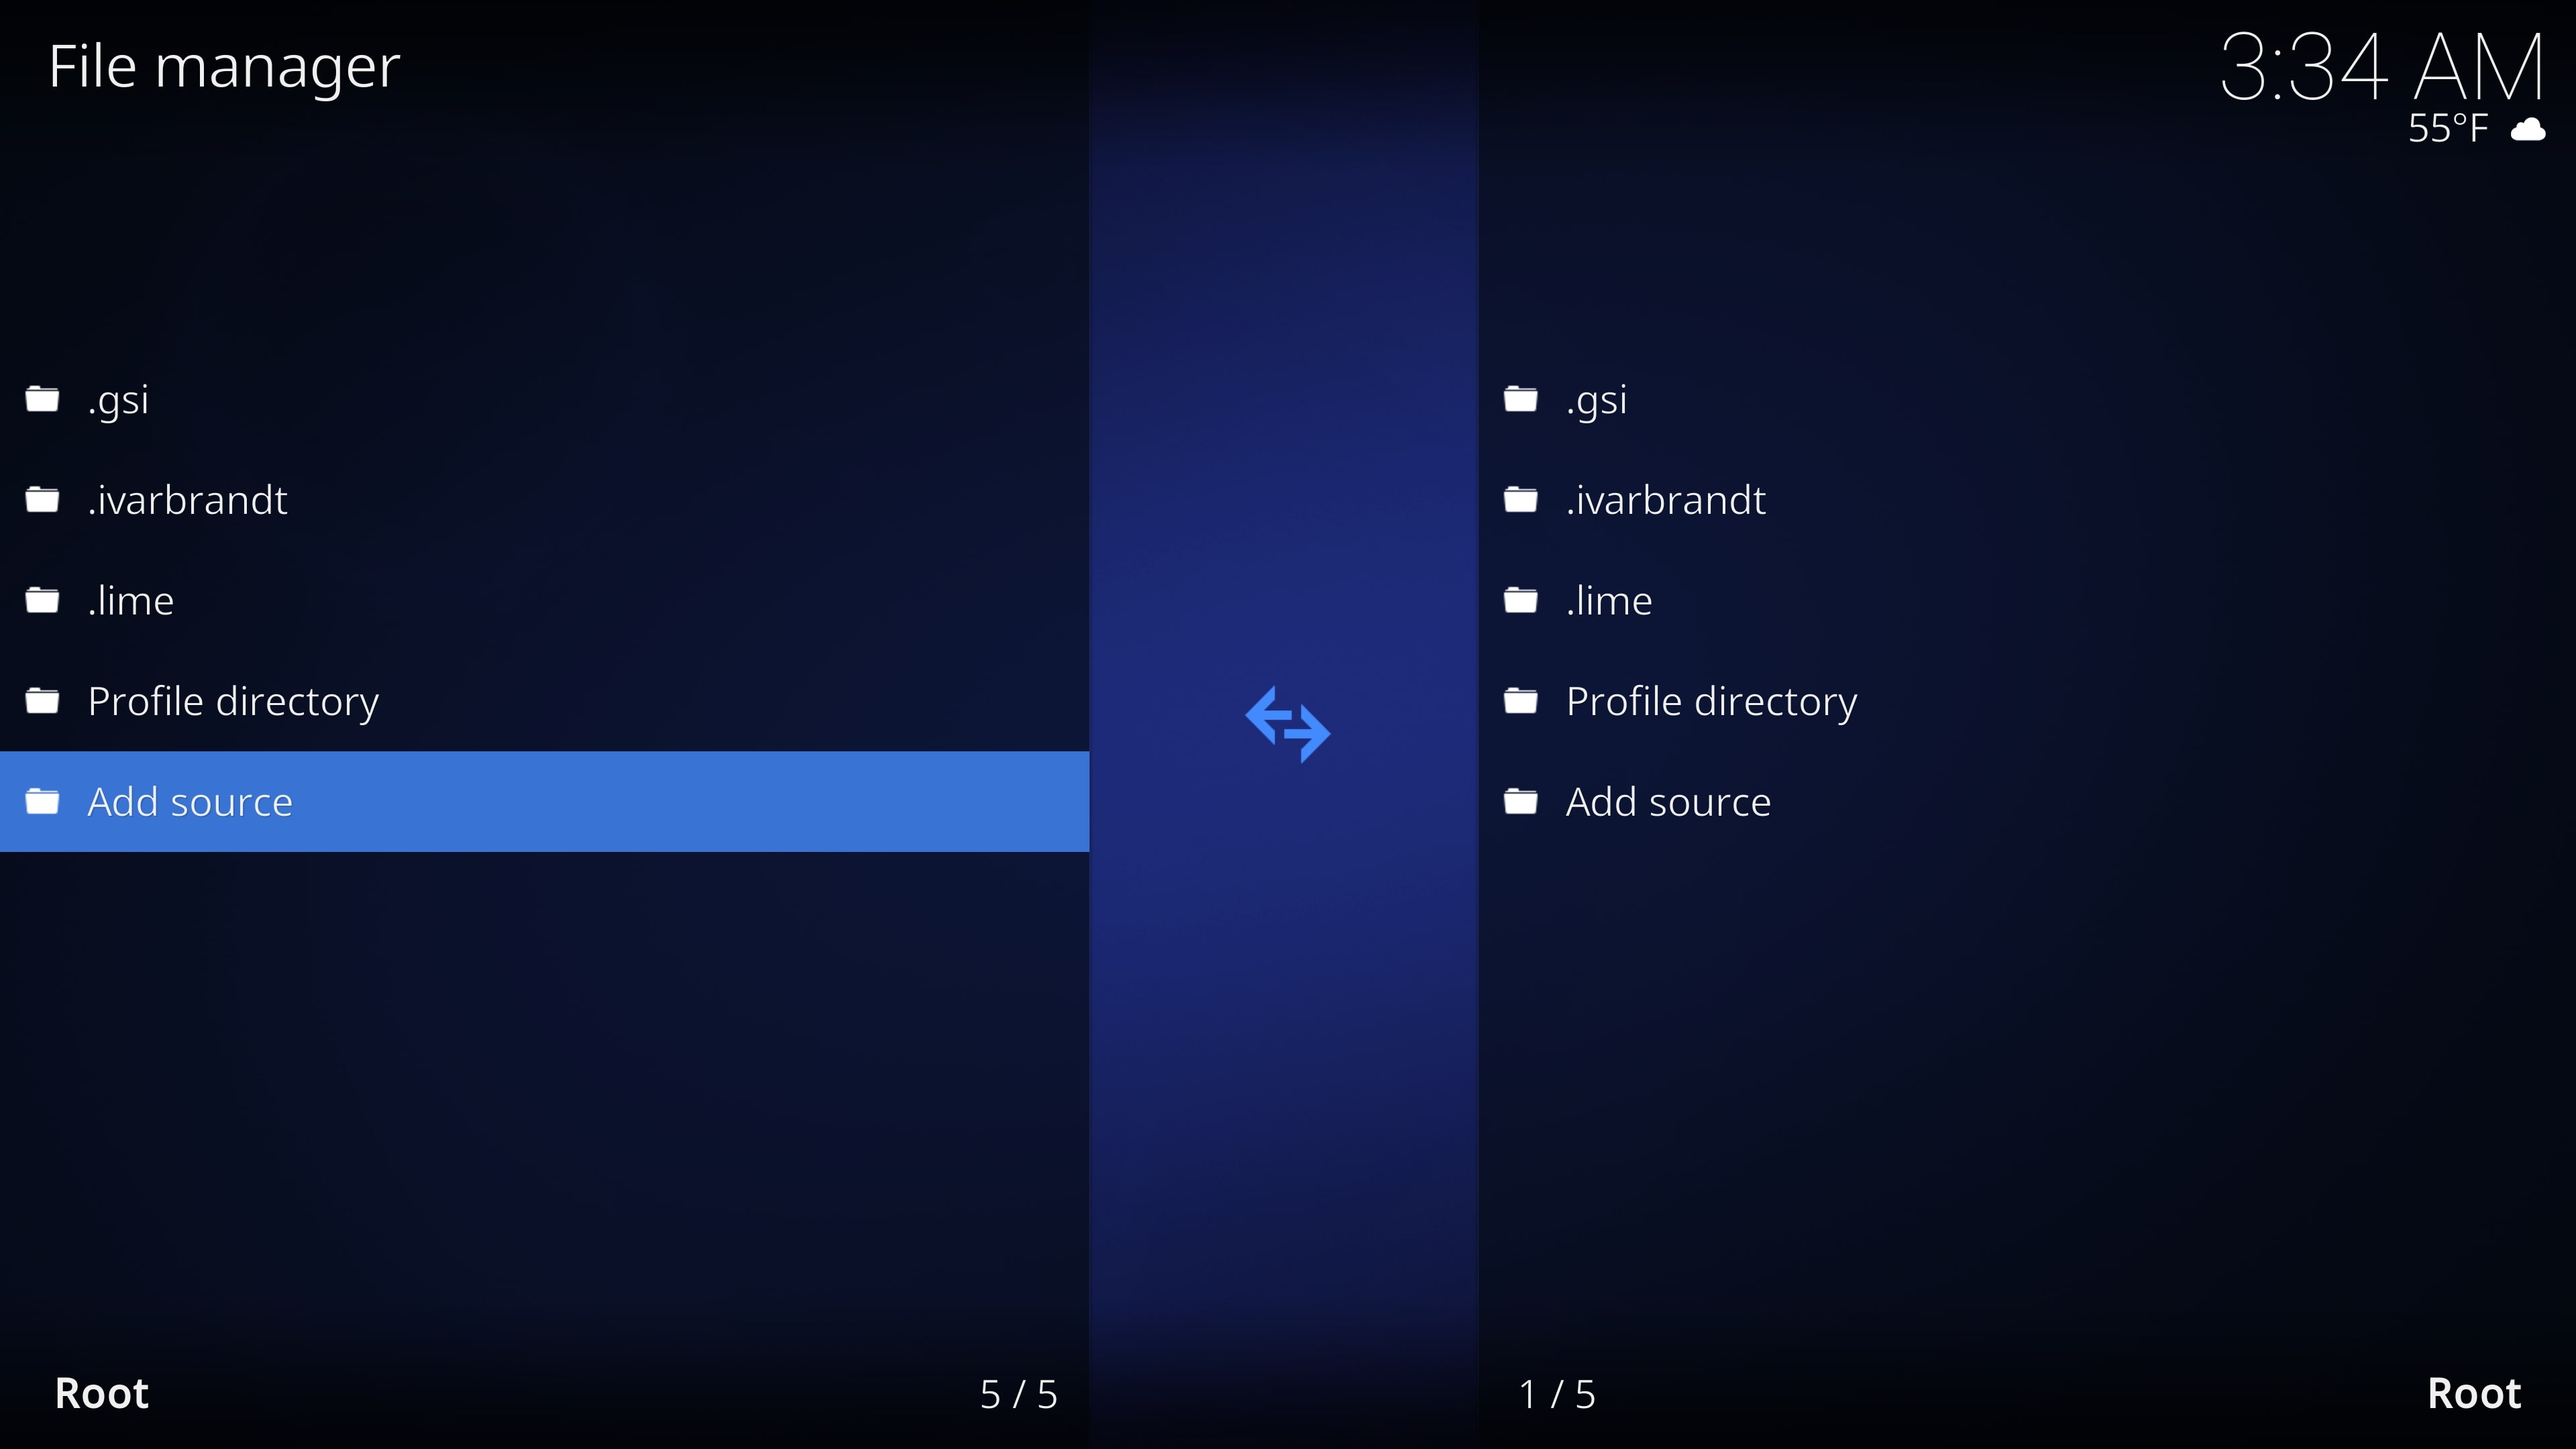
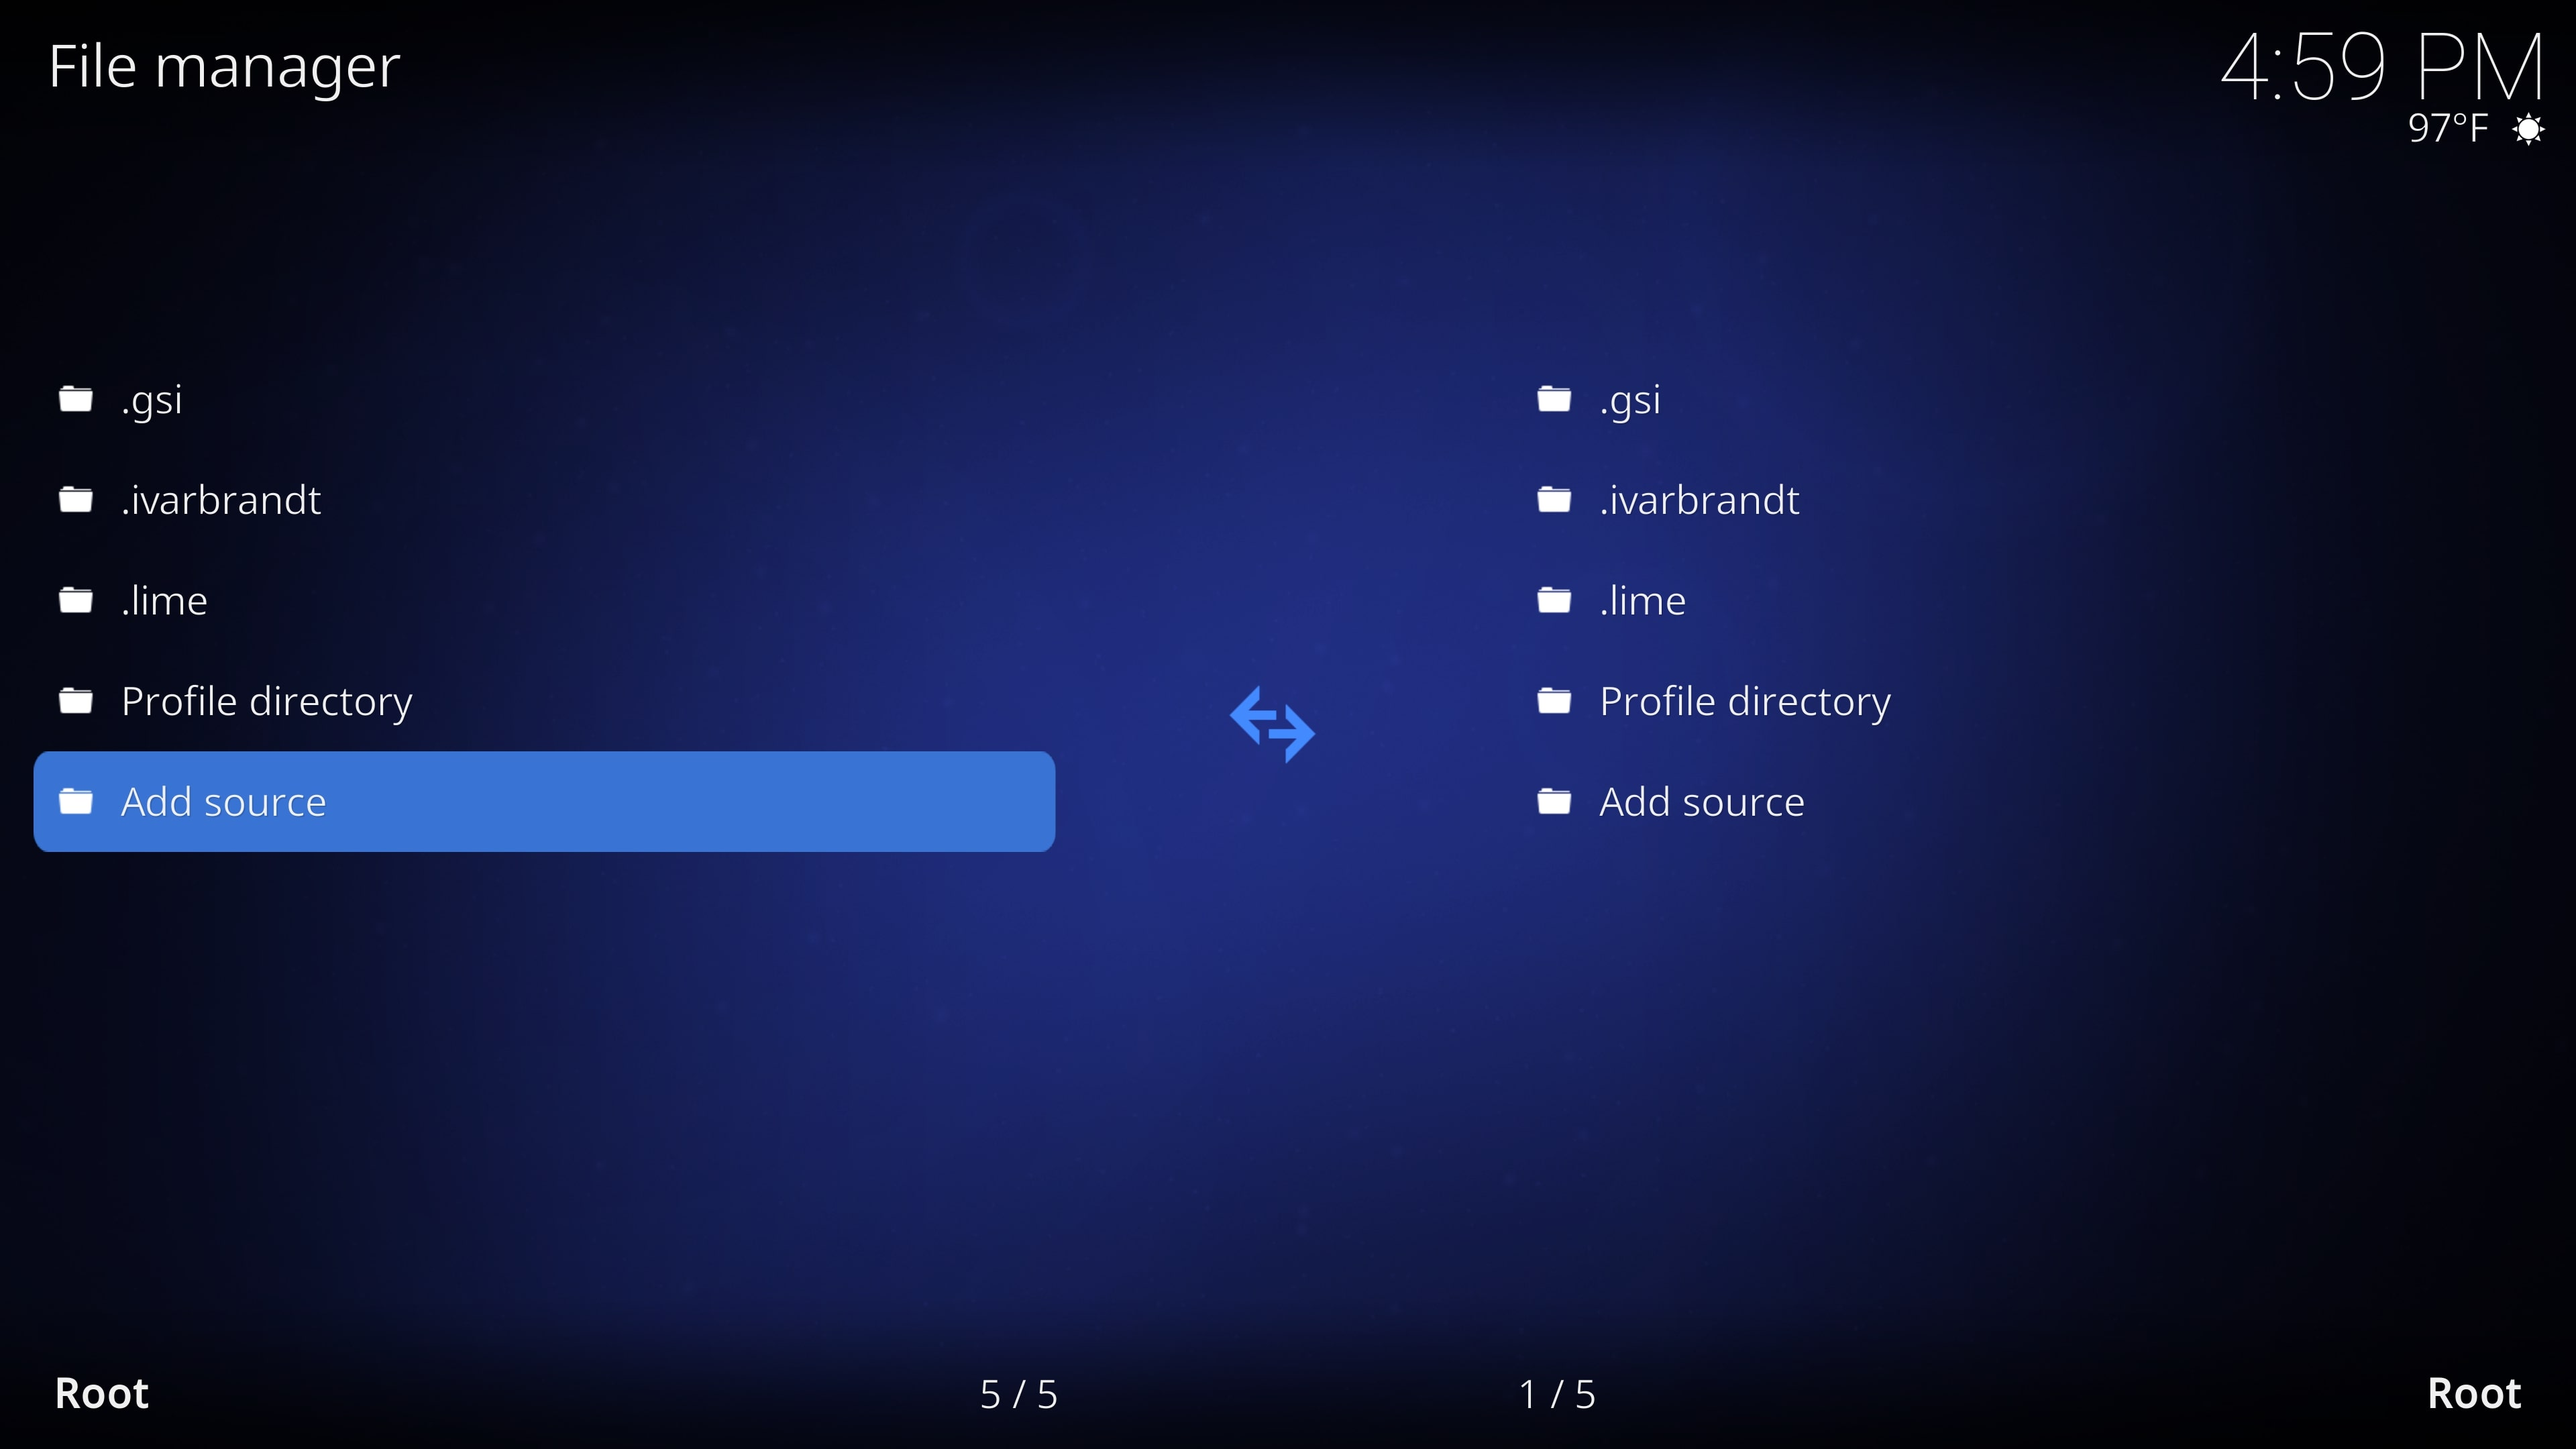
updated screenshots and documentation

diff --git a/README.md b/README.md
@@ -1,14 +1,24 @@
 # FENtastic Skin for Kodi Nexus
 
-FENtastic is a modded version of the default Estuary skin, specifically designed for FEN users. It includes several new features and adjustments to pre-existing views, including new viewtypes, customizable widgets, and a new default colors theme.
+FENtastic is a modded version of the default Estuary skin, specifically designed for FEN users. It includes several new features and adjustments to pre-existing views, including a new UI, viewtypes, customizable widgets, and a new default colors theme.
 
 ## FENtastic vs Default Estuary Skin
 
 Here are some of the key differences between FENtastic and the default Estuary skin.
 
+* **New UI Experience**: FENtastic introduces an updated modern UI.
+
+  ![Viewtypes Widelist](resources/images/viewtypes1.jpg)
+
+  ![Viewtypes List](resources/images/viewtypes2.jpg)
+
+  ![Viewtypes Widelist](resources/images/viewtypes3.jpg)
+
+  ![Viewtypes List](resources/images/viewtypes4.jpg)
+
 * **New viewtypes**: FENtastic introduces "WideInfoWall" and "WideWall" viewtypes.
 
-  ![Viewtypes](resources/images/viewtypes.jpg)
+  ![Viewtypes WideInfoWall](resources/images/viewtypes.jpg)
 
 * **Customizable Widgets**: FENtastic allows you to customize widgets and category widgets for movies, tvshows, and episodes.
 
@@ -26,11 +36,22 @@ Here are some of the key differences between FENtastic and the default Estuary s
 
   ![InfoPanel](resources/images/infopanel.jpg)
 
-* **Color Theme**: FENtastic comes with a new default color theme, and a new color theme 'purple'.
+* **Color Themes**: FENtastic comes with a new default color theme, and a new color theme 'purple'. The UI changes extend into every color theme.
 
-  ![Color Theme](resources/images/color_theme.jpg)
+  ![Color Theme Purple](resources/images/color_theme.jpg)
+
+  ![Color Theme Estuary](resources/images/color_theme1.jpg)
+
+  ![Color Theme Gold](resources/images/color_theme2.jpg)
+
+  ![Color Theme Green](resources/images/color_theme3.jpg)
+
+  ![Color Theme Pink](resources/images/color_theme4.jpg)
+
+  ![Color Theme Maroon](resources/images/color_theme5.jpg)
 
 ## Features
+* NEW UI experience
 * 2 NEW viewtypes ("WideWall" and "WideInfoWall")
 * Plenty of adjustments to pre-existing views
 * Customizable movie and show main menu items
